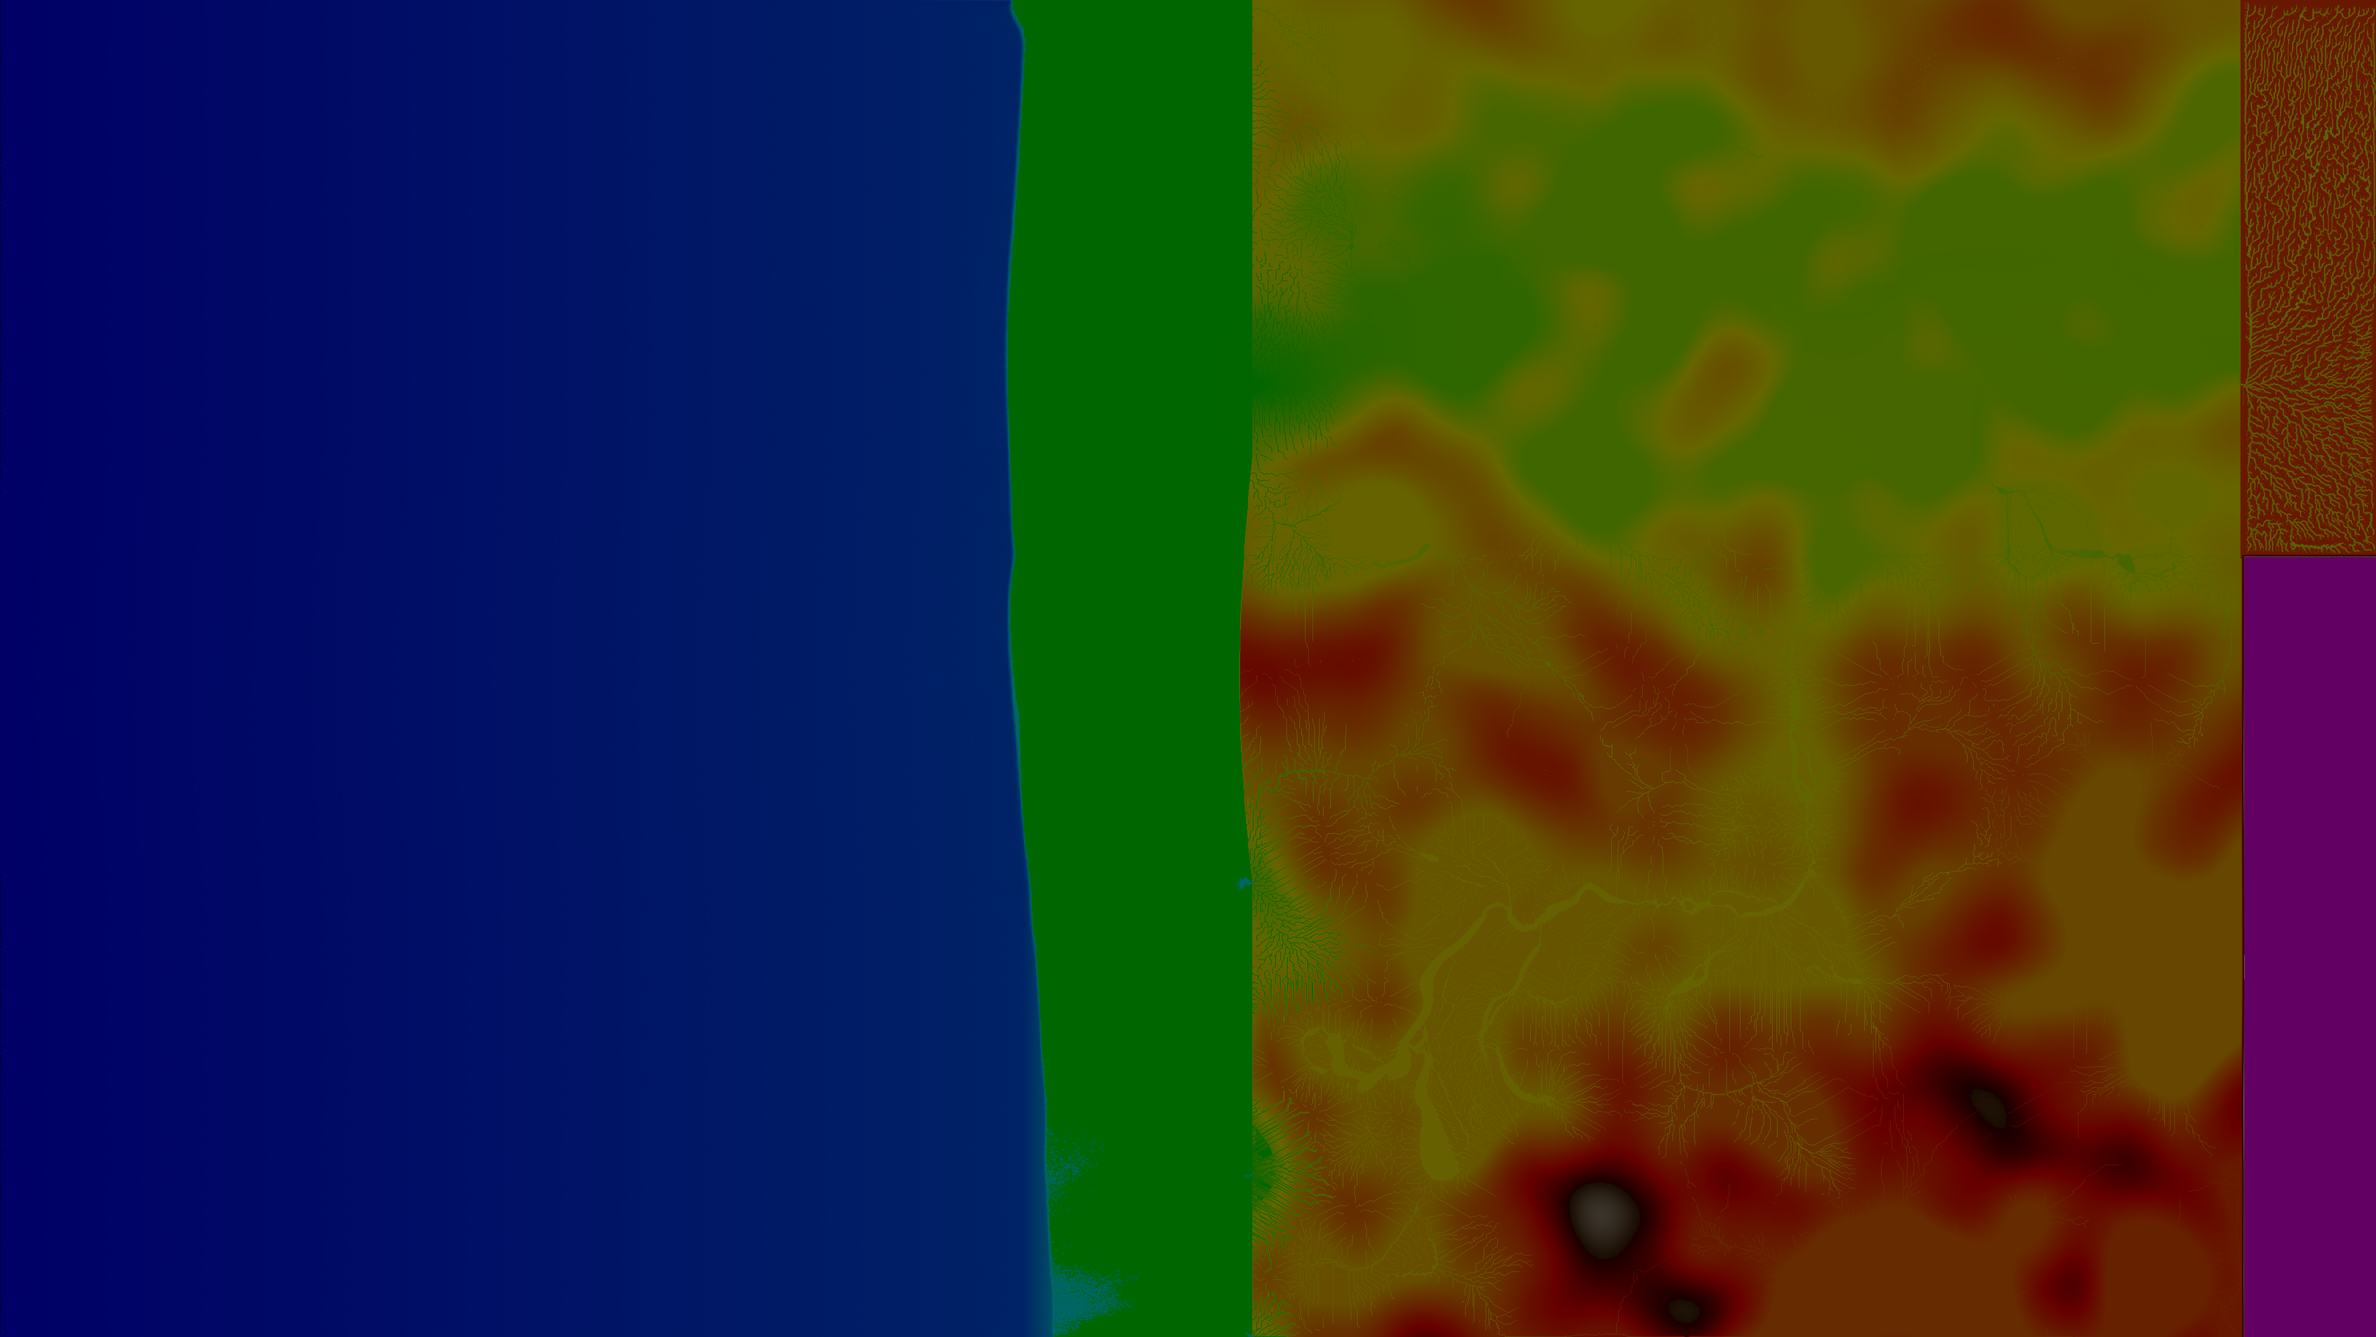
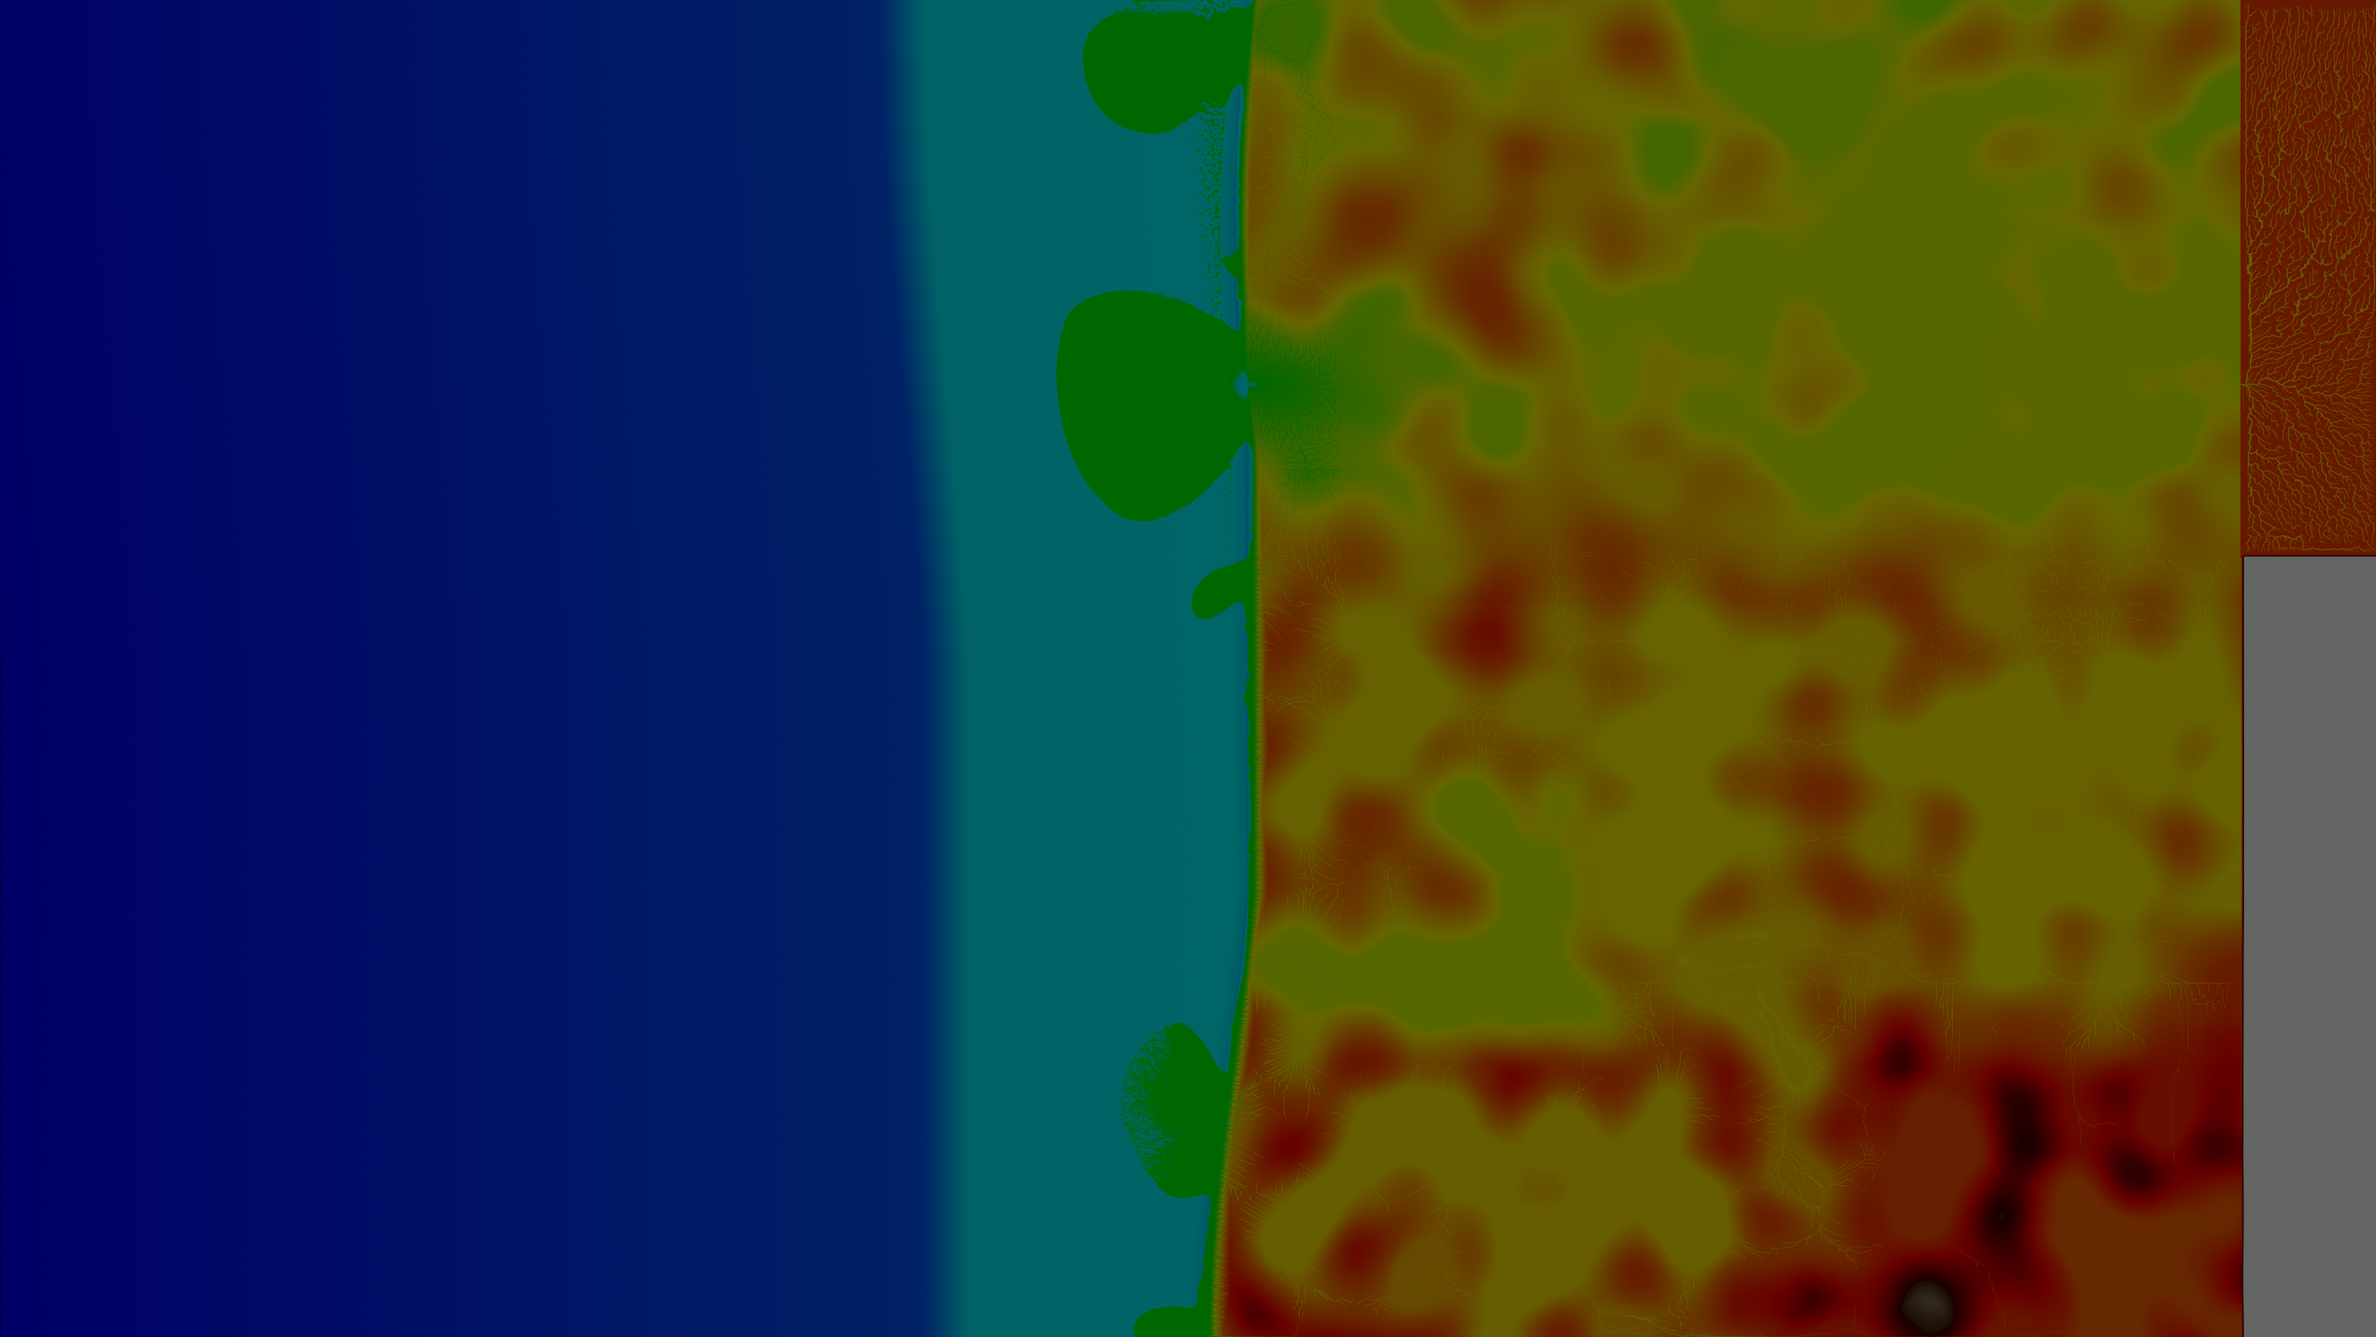
Deeper coastal "cut" and improved logging. Images are after 2200 rounds.

diff --git a/src/main.rs b/src/main.rs
@@ -190,11 +190,12 @@ fn elevation_to_color(elevation: f32) -> Rgb<u8> {
             Rgb([red, green, blue])
         } else {
             // Brown to white
-            let factor = (normalized_height - 0.7) / 0.3;
+            // TODO: Very confused why I end up needing to clamp twice, at least it finally
+            // made the magenta go away.
+            let factor = ((normalized_height - 0.7) / 0.3).clamp(0.0, 1.0);
             let red = 62 + (193.0 * factor) as u8; // 62→255
-            let green = 28 + (237.0 * factor) as u8;
+            let green = 28 + ((237.0 * factor) as u8).clamp(0, 255 - 28);
             let blue = (255.0 * factor) as u8;
-            // TODO: I seem to be getting some weird magenta dots in the output, not sure why.
             Rgb([red, green, blue])
         }
     }
@@ -367,11 +368,6 @@ fn simulate_rainfall(
                     },
                 );
 
-            // Experimenting with h.elevation > SEA_LEVEL or h.water_depth <= WATER_THRESHOLD.
-            let westernmost_land_hex = hex_map.par_iter().map(|row| {
-                row.iter().filter(|h| h.water_depth <= WATER_THRESHOLD).min_by_key(|h| h.coordinate.0)
-            }).flatten().min_by_key(|h| h.coordinate.0);
-
             let mean_depth = water_on_land / cells_above_sea_level as f32;
 
             let wet_cells: usize = hex_map
@@ -413,8 +409,14 @@ fn simulate_rainfall(
                 (acc.0.min(val.0), acc.1.max(val.1))
             });
 
+            let total_land: f32 = hex_map
+                .iter()
+                .flat_map(|row| row.iter().filter(|h| h.elevation > current_sea_level))
+                .map(|h| h.elevation)
+                .sum();
+
             println!(
-                "Round {:.0}: water in {:.3}  stored {:.0}  mean depth {:.2} ft  max depth {:.2} ft  wet {:} ({:.1}%)  source elevation {:.2} ft  outlet elevation {:.2} ft  target delta elevation {:.2} ft  westernmost land X {}",
+                "Round {:.0}: water in {:.3}  stored {:.0}  mean depth {:.2} ft  max depth {:.2} ft  wet {:} ({:.1}%)  source elevation {:.2} ft  outlet elevation {:.2} ft  target delta elevation {:.2} ft  total land {:.0}",
                 round,
                 (rainfall_added + RIVER_WATER_PER_STEP),
                 water_on_land,
@@ -425,7 +427,7 @@ fn simulate_rainfall(
                 source_hex.elevation,
                 outlet_hex.elevation,
                 target_delta_hex.elevation,
-                westernmost_land_hex.map_or(0, |h| h.coordinate.0),
+                total_land,
             );
             println!("  min elevation: {:.2} ft  max elevation: {:.2} ft  time: {:?}", min_elevation, max_elevation, water_start.elapsed());
 
@@ -439,19 +441,18 @@ fn simulate_rainfall(
 
         gpu_sim.run_rainfall_step(width * height, current_sea_level);
 
-        // GPU water routing
-        gpu_sim.run_water_routing_step(width, height, FLOW_FACTOR, MAX_FLOW);
-        gpu_sim.run_scatter_step(width, height);
-
-        // TODO: Similar to the river source updater, is it possible to get water / sediment outflows
-        // from GPU for diagnostic purposes?
-        gpu_sim.run_ocean_boundary(width, height, current_sea_level);
-
         // GPU min-slope + erosion/deposition passes
         gpu_sim.run_min_neigh_step(width, height);
         gpu_sim.run_erosion_step(width, height);
 
+        // GPU water routing
+        gpu_sim.run_water_routing_step(width, height, FLOW_FACTOR, MAX_FLOW);
+        gpu_sim.run_scatter_step(width, height);
+
         gpu_sim.run_repose_step(width, height);
+
+        // TODO: Get water / sediment outflows from GPU for diagnostic purposes?
+        gpu_sim.run_ocean_boundary(width, height, current_sea_level);
     }
 
     download_hex_data(&gpu_sim, hex_map);
@@ -460,6 +461,12 @@ fn simulate_rainfall(
         .iter()
         .flat_map(|row| row.iter().filter(|h| h.elevation > current_sea_level))
         .map(|h| h.water_depth)
+        .sum();
+
+    let land_remaining: f32 = hex_map
+        .iter()
+        .flat_map(|row| row.iter().filter(|h| h.elevation > current_sea_level))
+        .map(|h| h.elevation)
         .sum();
 
     let water_remaining_north: f32 = hex_map
@@ -510,8 +517,9 @@ fn simulate_rainfall(
     );
 
     println!(
-        " water remaining on land: {:.2} ft-hexes, water remaining north: {:.2} ft-hexes, water remaining NE basin: {:.2} ft-hexes,  water remaining central: {:.2} ft-hexes, sediment in {:.1},  sediment out {:.1}",
+        " water remaining on land: {:.2} ft-hexes, land remaining above sea level: {:.2} ft-hexes, water remaining north: {:.2} ft-hexes, water remaining NE basin: {:.2} ft-hexes,  water remaining central: {:.2} ft-hexes, sediment in {:.1},  sediment out {:.1}",
         water_remaining,
+        land_remaining,
         water_remaining_north,
         water_remaining_ne_basin,
         water_remaining_central,
@@ -628,7 +636,11 @@ fn main() {
 
     let mut hex_map = Vec::new();
     let mut rng = rand::thread_rng();
-    let perlin = Perlin::new(rng.gen_range(0..u32::MAX));
+    let seed = rng.gen_range(0..u32::MAX);
+
+    println!("Seed: {}", seed);
+
+    let perlin = Perlin::new(seed);
     let transition_period = ONE_DEGREE_LATITUDE_MILES as f64 * 2.0;
     let sea_deviation_for_river_y = get_sea_deviation(&perlin, RIVER_Y as f64, HEIGHT_PIXELS as f64 / 1.5);
     let river_outlet_x = TOTAL_SEA_WIDTH - sea_deviation_for_river_y;
@@ -640,24 +652,46 @@ fn main() {
         hex_map.push(Vec::new());
         let distance_from_river_y = (y as i16 - RIVER_Y as i16).abs();
         let sea_deviation = get_sea_deviation(&perlin, y as f64, HEIGHT_PIXELS as f64 / 1.5);
+        let shelf_deviation = get_sea_deviation(&perlin, (y + HEIGHT_PIXELS * 3 / 2) as f64, HEIGHT_PIXELS as f64);
+        let cut_factor = -0.05 - get_perlin_noise(&perlin, (y + HEIGHT_PIXELS * 5 / 2) as f64, HEIGHT_PIXELS as f64 / 1.5) * 0.05;
 
         for x in 0..WIDTH_HEXAGONS {
             let mut elevation = 0.0;
-            let mut distance_from_coast = 0;
+            let mut distance_from_coast = (x + sea_deviation) as f32 - TOTAL_SEA_WIDTH as f32;
             let adjusted_y = y as f64 + (x % 2) as f64 * 0.5;
 
-            if x + sea_deviation < ABYSSAL_PLAINS_WIDTH {
-                elevation = -1.0 * ABYSSAL_PLAINS_MIN_DEPTH - (ABYSSAL_PLAINS_WIDTH - (x + sea_deviation)) as f32 * ABYSSAL_PLAINS_INCREMENT;
-            } else if x + sea_deviation >= ABYSSAL_PLAINS_WIDTH && x + sea_deviation < ABYSSAL_PLAINS_WIDTH + CONTINENTAL_SLOPE_WIDTH {
-                elevation = (x + sea_deviation - ABYSSAL_PLAINS_WIDTH) as f32 * CONTINENTAL_SLOPE_INCREMENT - ABYSSAL_PLAINS_MIN_DEPTH;
+            // TODO: Continental probably shouldn't exactly follow coastline. In fact it would be cool if the god-knife-carving-out-the-coastline
+            // thing I've got going on cut into the continental shelf.
+            if x + shelf_deviation < ABYSSAL_PLAINS_WIDTH {
+                elevation = -1.0 * ABYSSAL_PLAINS_MIN_DEPTH - (ABYSSAL_PLAINS_WIDTH - (x + shelf_deviation)) as f32 * ABYSSAL_PLAINS_INCREMENT;
+            } else if x + shelf_deviation >= ABYSSAL_PLAINS_WIDTH && x + shelf_deviation < ABYSSAL_PLAINS_WIDTH + CONTINENTAL_SLOPE_WIDTH {
+                elevation = (x + shelf_deviation - ABYSSAL_PLAINS_WIDTH) as f32 * CONTINENTAL_SLOPE_INCREMENT - ABYSSAL_PLAINS_MIN_DEPTH;
             } else if x + sea_deviation < TOTAL_SEA_WIDTH {
-                elevation = (x + sea_deviation - ABYSSAL_PLAINS_WIDTH - CONTINENTAL_SLOPE_WIDTH) as f32 * CONTINENTAL_SHELF_INCREMENT - CONTINENTAL_SHELF_DEPTH;
+                elevation = (x + shelf_deviation - ABYSSAL_PLAINS_WIDTH - CONTINENTAL_SLOPE_WIDTH) as f32 * CONTINENTAL_SHELF_INCREMENT - CONTINENTAL_SHELF_DEPTH;
+                elevation = elevation.min(-1.0 * f32::EPSILON);
             } else {
-                distance_from_coast = x + sea_deviation - TOTAL_SEA_WIDTH;
                 let map_third_noise = get_perlin_noise_for_hex(&perlin, x as f64, adjusted_y, HEIGHT_PIXELS as f64 / 3.0);
                 let transition_period_noise = get_perlin_noise_for_hex(&perlin, x as f64, adjusted_y, transition_period);
                 let coastal_noise = get_perlin_noise_for_hex(&perlin, x as f64, adjusted_y, COAST_WIDTH as f64);
                 let perlin_noise = ((transition_period_noise + coastal_noise + map_third_noise) / 3.0).powf(3.0_f32.log2());
+
+                if y < NORTH_DESERT_HEIGHT {
+                    let (cx1, cy1) = hex_coordinates_to_cartesian(x as i32, y as i32);
+                    let (cx2, cy2) = hex_coordinates_to_cartesian(TOTAL_SEA_WIDTH as i32 - sea_deviation_for_river_y as i32, RIVER_Y as i32);
+                    // Area is oval-shaped, not circular, with the longer axis running east-west.
+                    let factor = (cartesian_distance(0.0, cy1, (cx2 - cx1) / 2.5, cy2) / (transition_period as f32)).min(1.0);
+                    elevation = perlin_noise * NORTH_DESERT_MAX_ELEVATION * factor;
+                } else if y < NORTH_DESERT_HEIGHT + CENTRAL_HIGHLAND_HEIGHT {
+                    // Similar to making sure the river isn't too far north, we should take steps to make sure the delta isn't too far south.
+                    // Faster transition because it's a less dramatic change.
+                    let factor = ((y - NORTH_DESERT_HEIGHT) as f32 / transition_period as f32 * 2.0).min(1.0);
+                    elevation = perlin_noise * ((CENTRAL_HIGHLAND_MAX_ELEVATION - NORTH_DESERT_MAX_ELEVATION) * factor + NORTH_DESERT_MAX_ELEVATION);
+                } else {
+                    // Should probably be renamed "south mountains"
+                    // let coast_factor = distance_from_coast as f32 * 2.0 / COAST_WIDTH as f32;
+                    let factor = ((y - NORTH_DESERT_HEIGHT - CENTRAL_HIGHLAND_HEIGHT) as f32 / transition_period as f32).min(1.0);
+                    elevation = perlin_noise * ((SOUTH_MOUNTAINS_MAX_ELEVATION - CENTRAL_HIGHLAND_MAX_ELEVATION) * factor + CENTRAL_HIGHLAND_MAX_ELEVATION);
+                }
 
                 if y < RIVER_Y - (transition_period) as usize {
                     // This is to prevent the river outlet from being too far north.
@@ -665,31 +699,19 @@ fn main() {
                     // let coast_factor = (1.0 - distance_from_coast as f32 * 2.0 / COAST_WIDTH as f32).max(0.0);
                     let factor = ((RIVER_Y as f32 - transition_period as f32 * 2.0 - y as f32) / (transition_period as f32)).abs().clamp(0.0, 1.0);
                     elevation = perlin_noise * NORTH_DESERT_MAX_ELEVATION + (1.0 - perlin_noise) * NORTH_DESERT_MAX_ELEVATION * (1.0 - factor) * 0.25;
-                } else if y < NORTH_DESERT_HEIGHT {
-                    let (cx1, cy1) = hex_coordinates_to_cartesian(x as i32, y as i32);
-                    let (cx2, cy2) = hex_coordinates_to_cartesian(TOTAL_SEA_WIDTH as i32 - sea_deviation_for_river_y as i32, RIVER_Y as i32);
-                    // Area is oval-shaped, not circular, with the longer axis running east-west.
-                    let factor = (cartesian_distance(0.0, cy1, (cx2 - cx1) / 5.0, cy2) / (transition_period as f32 / 2.0)).min(1.0);
-                    elevation = perlin_noise * NORTH_DESERT_MAX_ELEVATION * factor;
-                } else if y < NORTH_DESERT_HEIGHT + CENTRAL_HIGHLAND_HEIGHT {
-                    // Similar to making sure the river isn't too far north, we should take steps to make sure the delta isn't too far south.
-                    // Faster transition because it's a less dramatic change.
-                    let factor = ((y - NORTH_DESERT_HEIGHT) as f32 / transition_period as f32 * 2.0).min(1.0);
-                    let max_elevation = (CENTRAL_HIGHLAND_MAX_ELEVATION - NORTH_DESERT_MAX_ELEVATION) * factor + NORTH_DESERT_MAX_ELEVATION;
-                    elevation = perlin_noise * max_elevation;
-
-                    if y < NORTH_DESERT_HEIGHT + (transition_period * 2.0) as usize {
-                        let secondary_factor = ((NORTH_DESERT_HEIGHT as f32 + transition_period as f32 - y as f32) / (transition_period as f32)).abs().clamp(0.0, 1.0);
-                        elevation += (1.0 - perlin_noise) * (max_elevation / 6.0) * (1.0 - secondary_factor);
-                    }
-                } else {
-                    // Should probably be renamed "south mountains"
-                    // let coast_factor = distance_from_coast as f32 * 2.0 / COAST_WIDTH as f32;
-                    let factor = ((y - NORTH_DESERT_HEIGHT - CENTRAL_HIGHLAND_HEIGHT) as f32 / transition_period as f32).min(1.0);
-                    elevation = perlin_noise * ((SOUTH_MOUNTAINS_MAX_ELEVATION - CENTRAL_HIGHLAND_MAX_ELEVATION) * factor + CENTRAL_HIGHLAND_MAX_ELEVATION);
+                } else if y < NORTH_DESERT_HEIGHT + transition_period as usize {
+                    let factor = ((NORTH_DESERT_HEIGHT as f32 - y as f32) / (transition_period as f32)).abs().clamp(0.0, 1.0);
+                    elevation += (1.0 - perlin_noise) * (CENTRAL_HIGHLAND_MAX_ELEVATION * 0.25) * (1.0 - factor);
                 }
-                elevation = elevation.min(distance_from_coast as f32 * 2.0 / COAST_WIDTH as f32 * SOUTH_MOUNTAINS_MAX_ELEVATION);
             }
+
+            // TODO: Vary cut depth using perlin noise.
+            if distance_from_coast > COAST_WIDTH as f32 * cut_factor {
+                elevation = elevation.min(distance_from_coast * 2.0 / COAST_WIDTH as f32 * SOUTH_MOUNTAINS_MAX_ELEVATION);
+            } else {
+                elevation = elevation.min((COAST_WIDTH as f32 * cut_factor - distance_from_coast) * SOUTH_MOUNTAINS_MAX_ELEVATION / COAST_WIDTH as f32 / 2.0 + SOUTH_MOUNTAINS_MAX_ELEVATION * cut_factor);
+            }
+
 
             // let mut bumper_factor = 0.0;
             // if y > NORTH_DESERT_HEIGHT - BUMPER_RANGE && y < NORTH_DESERT_HEIGHT + BUMPER_RANGE {
@@ -730,7 +752,7 @@ fn main() {
             }
 
             let mut rain_class = 0;
-            if x + sea_deviation > TOTAL_SEA_WIDTH && distance_from_coast < COAST_WIDTH {
+            if x + sea_deviation > TOTAL_SEA_WIDTH && (distance_from_coast as usize) < COAST_WIDTH {
                 rain_class += 1;
             }
             if y > NORTH_DESERT_HEIGHT {
@@ -800,6 +822,7 @@ fn main() {
 
     let hex_duration = hex_start.elapsed();
     println!("Hex map creation took: {:?}", hex_duration);
+    println!("Seed: {}", seed);
 
     // Time PNG conversion
     let png_start = Instant::now();

diff --git a/src/constants.rs b/src/constants.rs
@@ -53,9 +53,9 @@ pub const MAIN_CENTRAL_HIGHLAND_RAIN: f32 = (COAST_WIDTH as f32 * MEDIUM_RAIN + 
 pub const NE_BASIN_WIDTH: usize = ((MAIN_CENTRAL_HIGHLAND_RAIN - NORTH_DESERT_RAIN) / (VERY_HIGH_RAIN * NE_BASIN_HEIGHT as f32)) as usize;
 pub const TOTAL_LAND_WIDTH: usize = NE_BASIN_WIDTH + NORTH_DESERT_WIDTH;
 // In real life, continental shelves can extend as little as 50 miles or as much as 310 miles from shore.
-pub const CONTINENTAL_SHELF_WIDTH: usize = (100.0 * 2.0 / HEX_FACTOR) as usize;
+pub const CONTINENTAL_SHELF_WIDTH: usize = (230.0 * 2.0 / HEX_FACTOR) as usize;
 pub const CONTINENTAL_SHELF_DEPTH: f32 = 460.0;
-pub const CONTINENTAL_SHELF_INCREMENT: f32 = CONTINENTAL_SHELF_DEPTH / CONTINENTAL_SHELF_WIDTH as f32;
+pub const CONTINENTAL_SHELF_INCREMENT: f32 = CONTINENTAL_SHELF_DEPTH as f32 / CONTINENTAL_SHELF_WIDTH as f32;
 pub const CONTINENTAL_SLOPE_GRADE: f32 = 0.05; // About 3 degrees.
 pub const CONTINENTAL_SLOPE_INCREMENT: f32 = CONTINENTAL_SLOPE_GRADE * HEX_SIZE * HEX_FACTOR;
 pub const ABYSSAL_PLAINS_MIN_DEPTH: f32 = 10_000.0;
